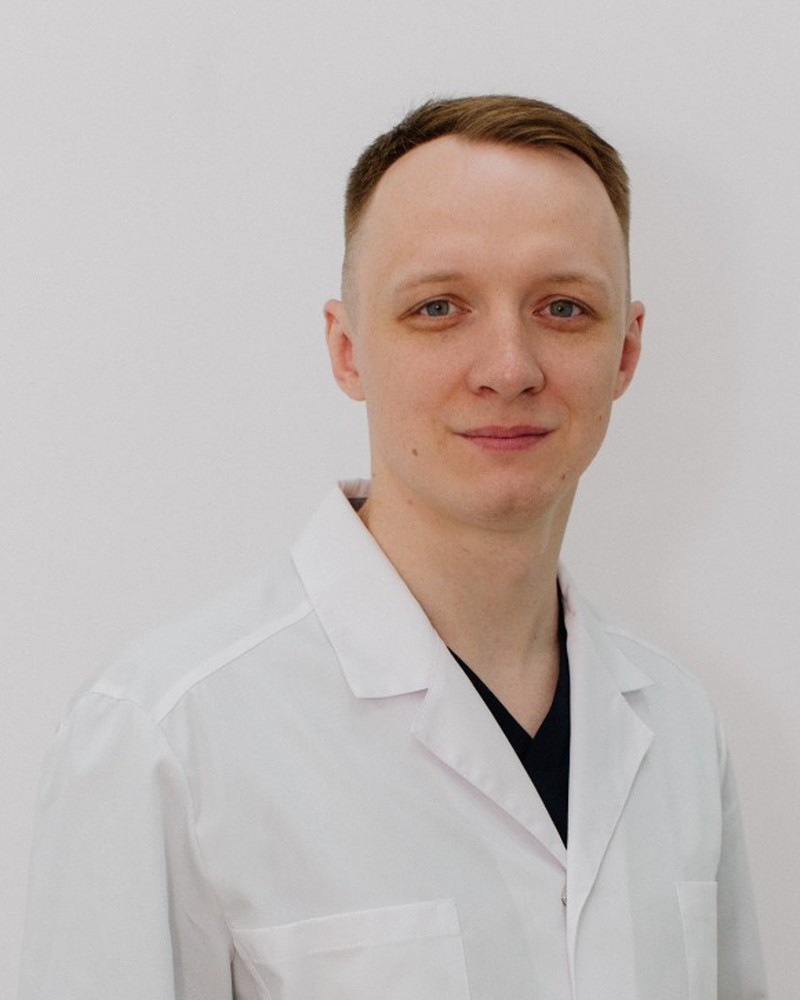
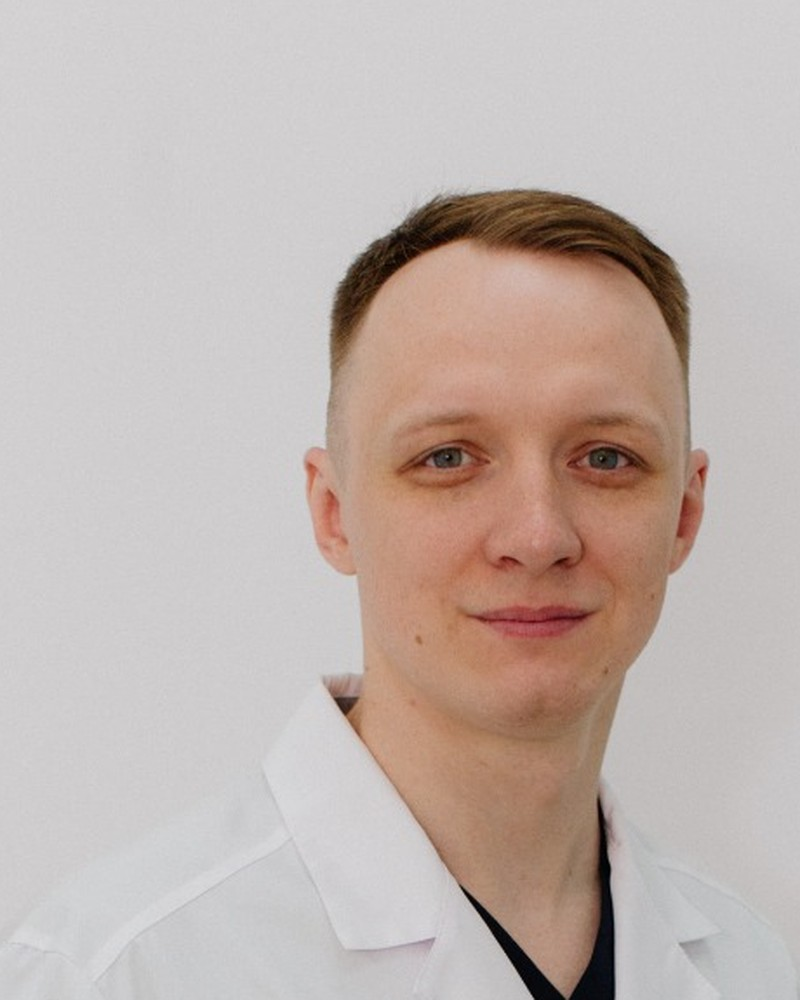
Hero: голова в центре кадра (фокус на голове, cache-bust v6)

diff --git a/site/index.html b/site/index.html
@@ -407,7 +407,7 @@ img{max-width:100%;display:block}
     </div>
     <div class="reveal">
       <div class="hero-photo">
-        <img src="doctor.jpg?v=5" alt="Братусь Михаил Андреевич — врач-реабилитолог" loading="eager" />
+        <img src="doctor.jpg?v=6" alt="Братусь Михаил Андреевич — врач-реабилитолог" loading="eager" />
         <div class="float-card">
           <div class="fc-num">7+</div>
           <small>лет практики<br>с 2019 года</small>